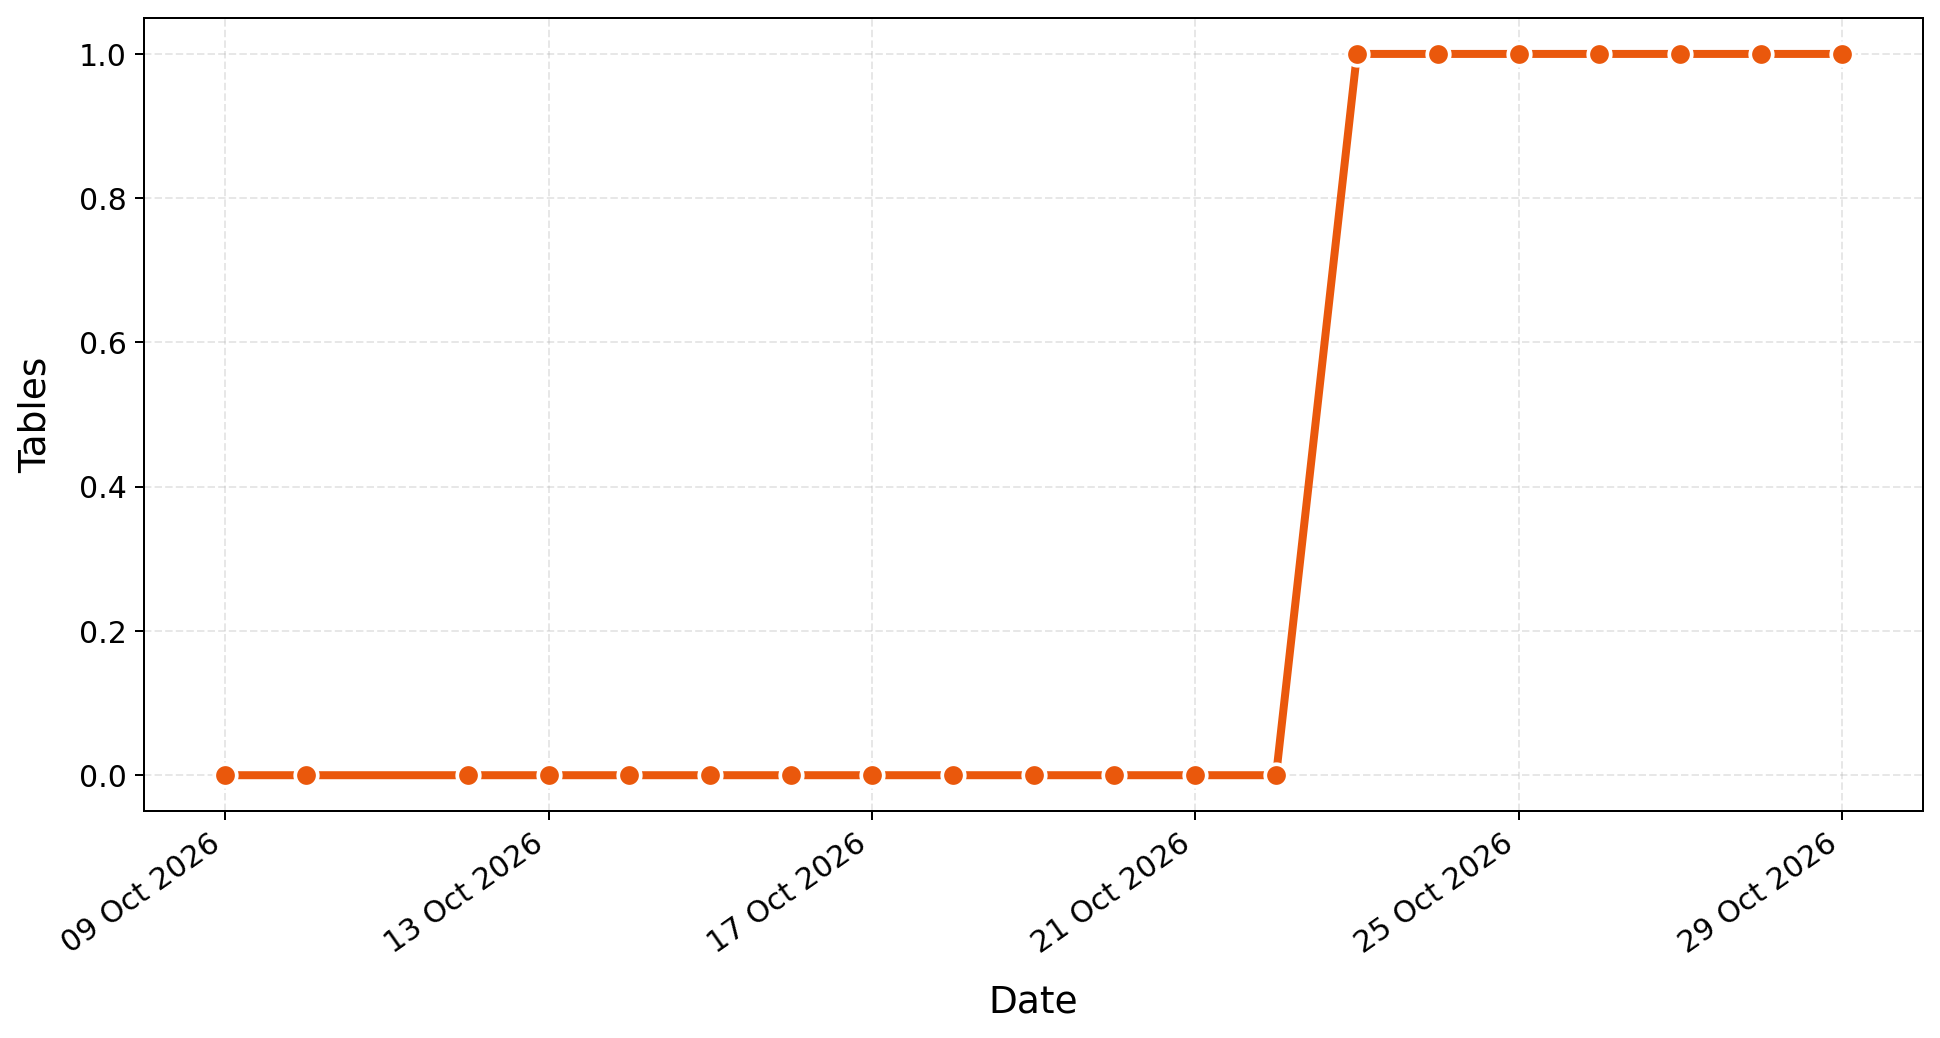
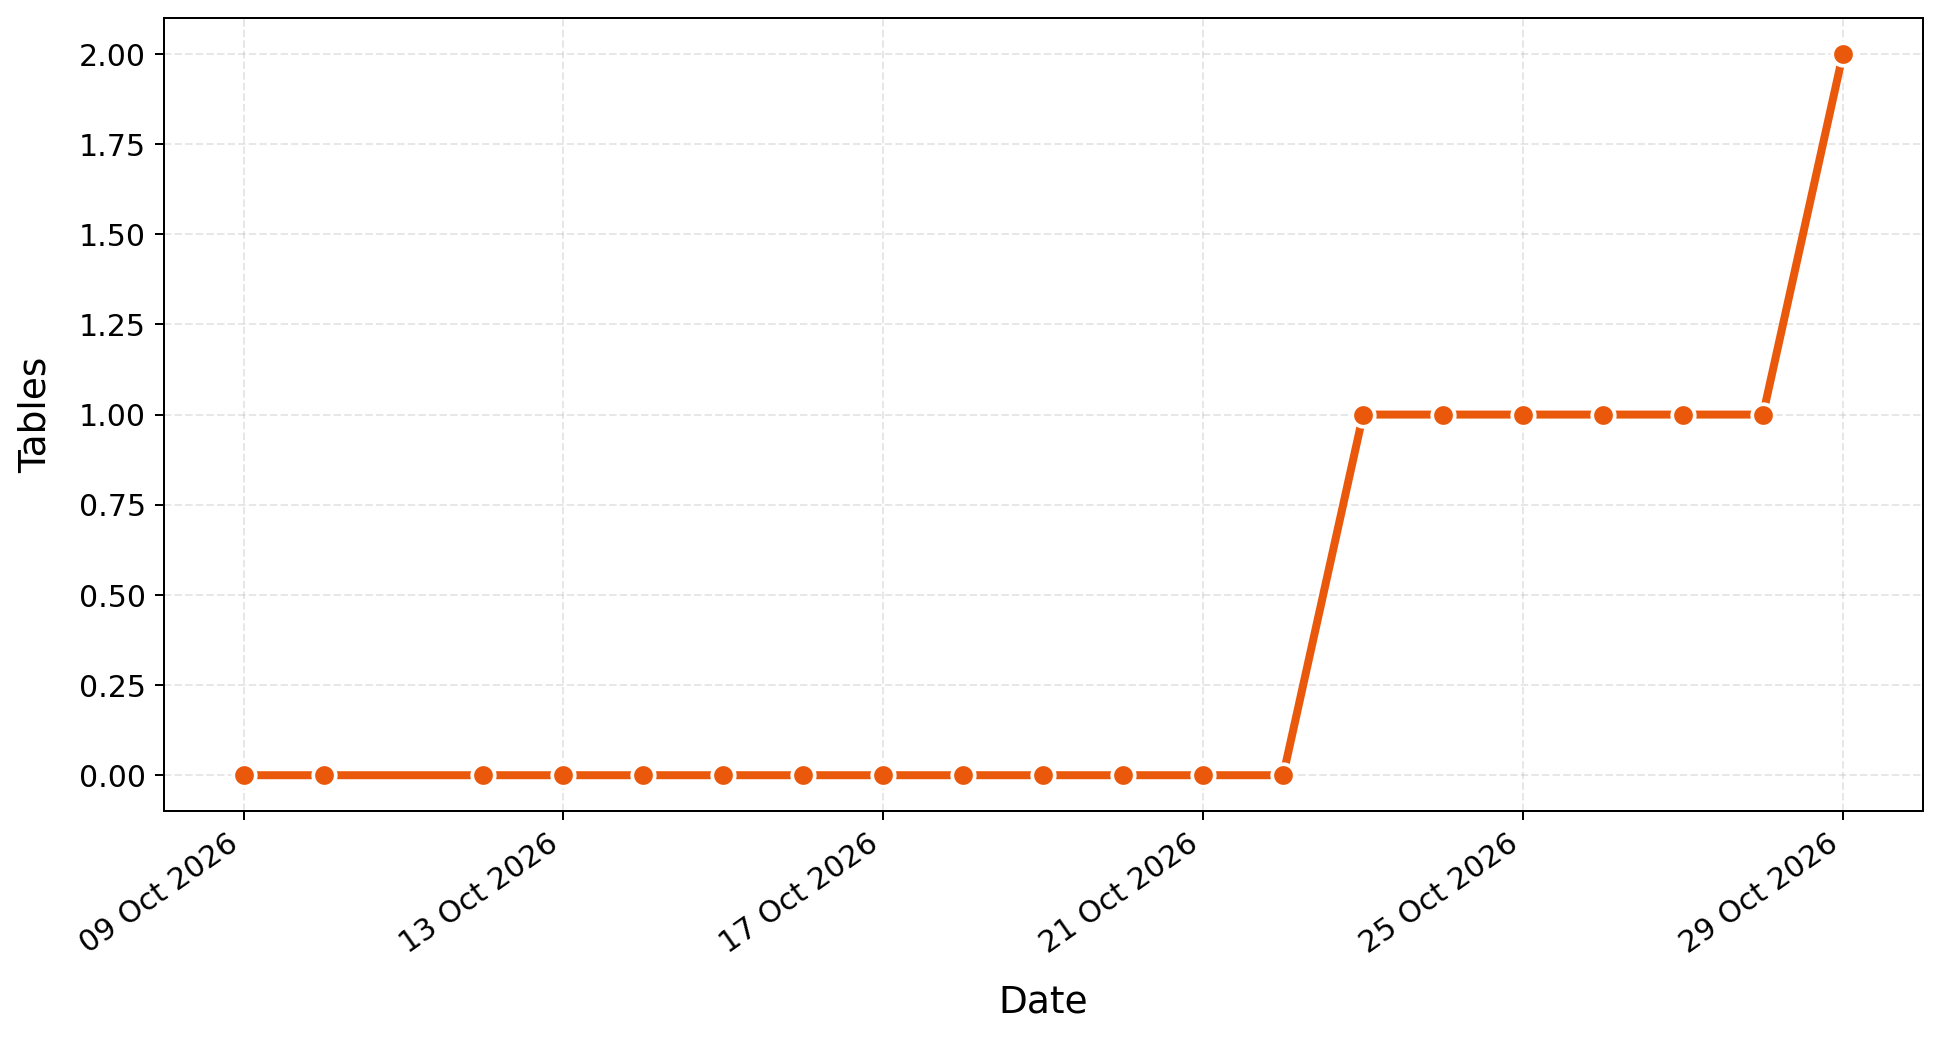
Update thesis progress dashboard

diff --git a/index.html b/index.html
@@ -12,7 +12,7 @@
     <p class="eyebrow">THESIS WRITING LOG</p>
     <h1>Thesis Progress</h1>
     <p>A visual overview of writing progress over time.</p>
-    <p class="updated">Last updated: 2026-10-29 17:56 CET</p>
+    <p class="updated">Last updated: 2026-10-29 19:11 CET</p>
   </header>
 
   <main>
@@ -28,20 +28,20 @@
 
         <article class="summary-card">
           <p class="summary-label">Total words</p>
-          <p class="summary-total">6,394</p>
+          <p class="summary-total">6,648</p>
           <p class="summary-change"
              style="color: #16A34A;">
-            +1,411 this week
+            +1,665 this week
           </p>
         </article>
         
 
         <article class="summary-card">
           <p class="summary-label">Total figures</p>
-          <p class="summary-total">17</p>
+          <p class="summary-total">18</p>
           <p class="summary-change"
              style="color: #16A34A;">
-            +3 this week
+            +4 this week
           </p>
         </article>
         
@@ -58,10 +58,10 @@
 
         <article class="summary-card">
           <p class="summary-label">Total tables</p>
-          <p class="summary-total">1</p>
+          <p class="summary-total">2</p>
           <p class="summary-change"
-             style="color: #64748B;">
-            No change this week
+             style="color: #16A34A;">
+            +1 this week
           </p>
         </article>
         
